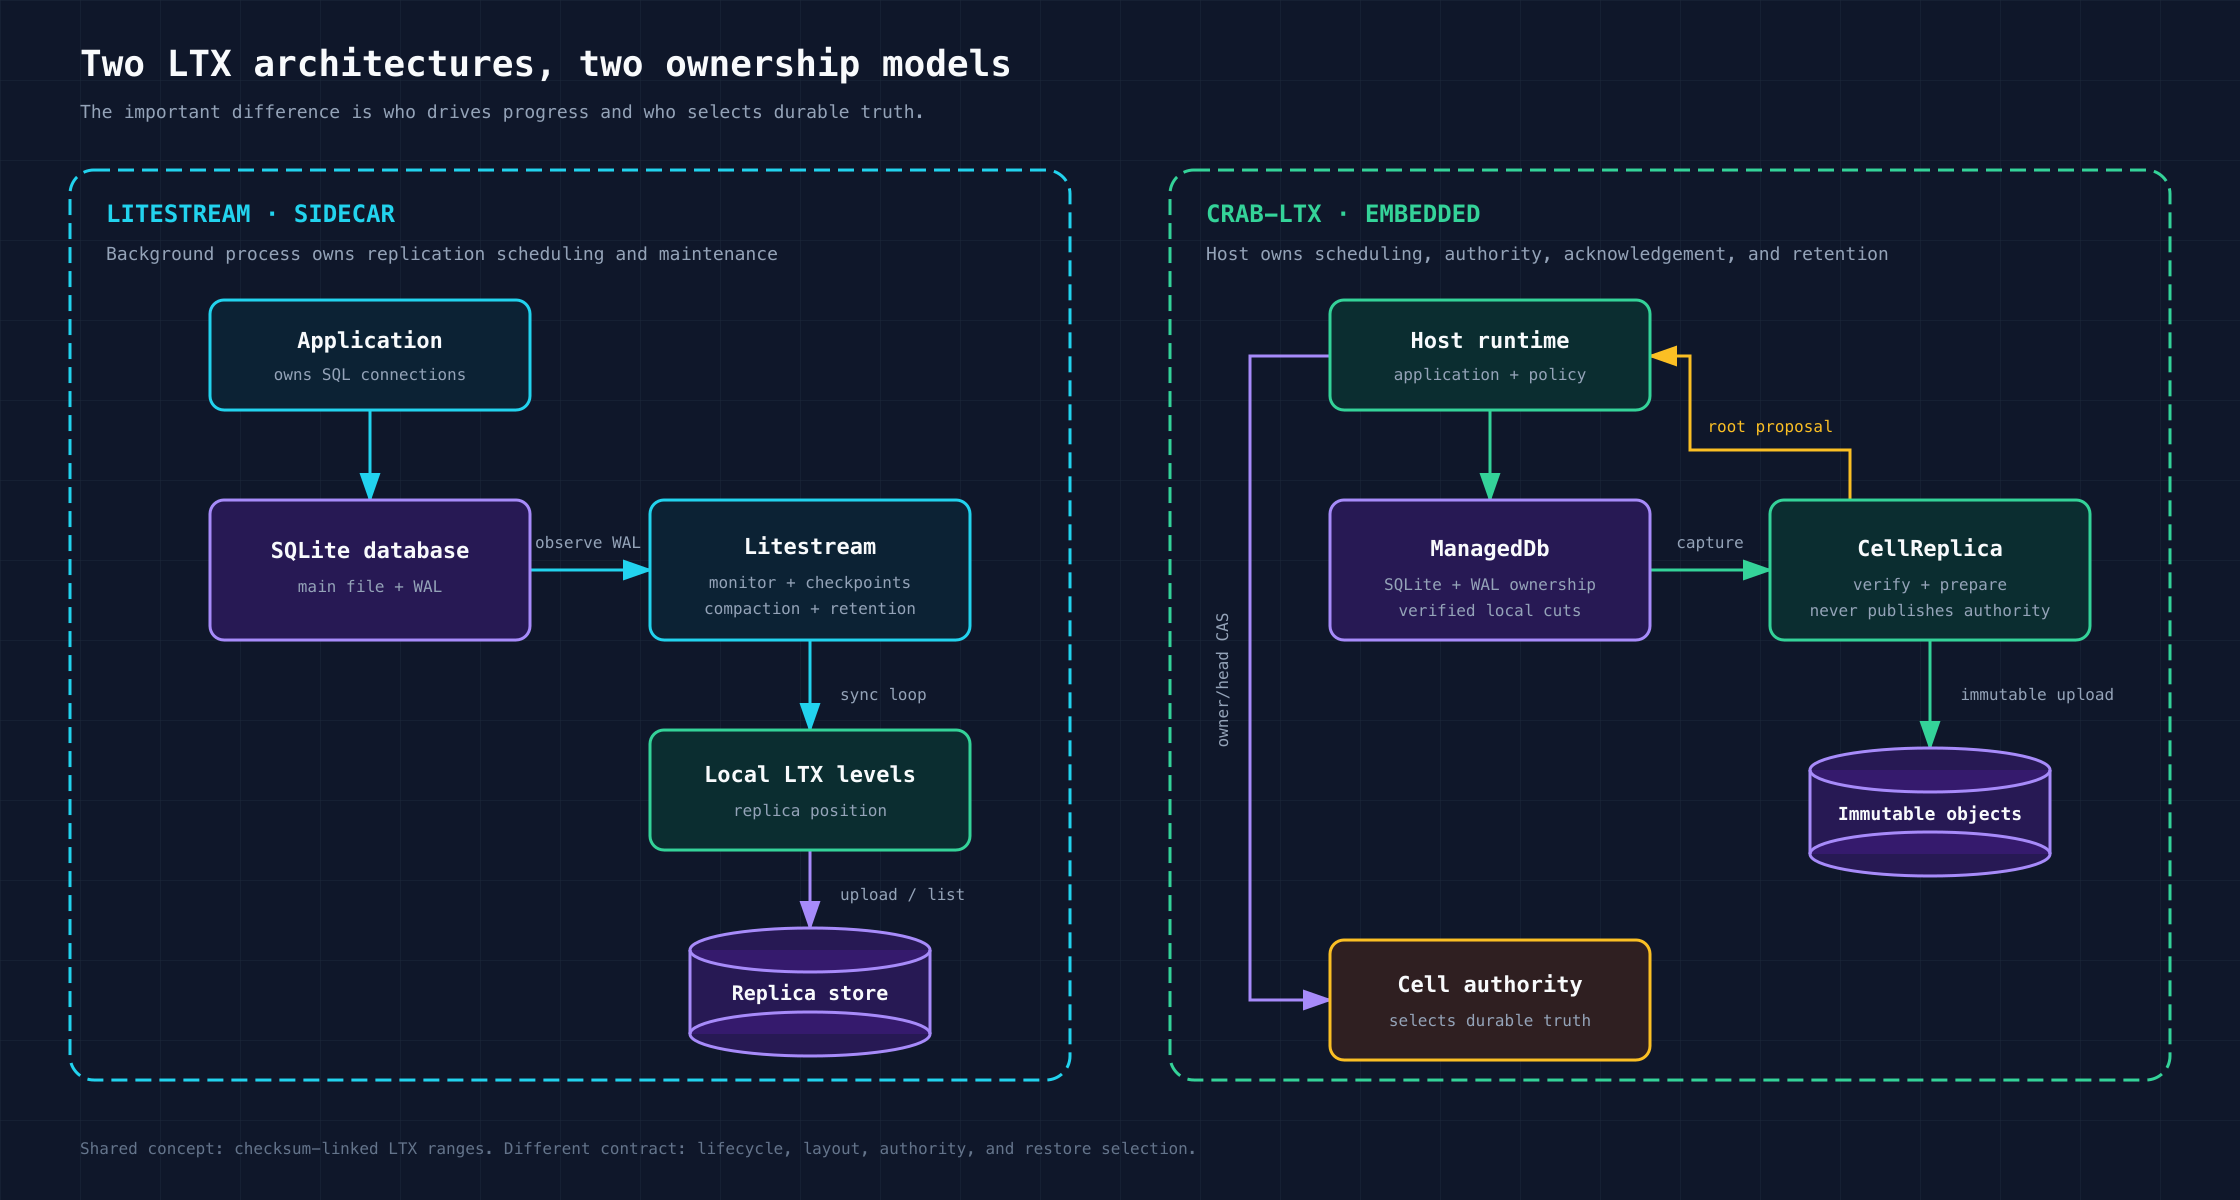
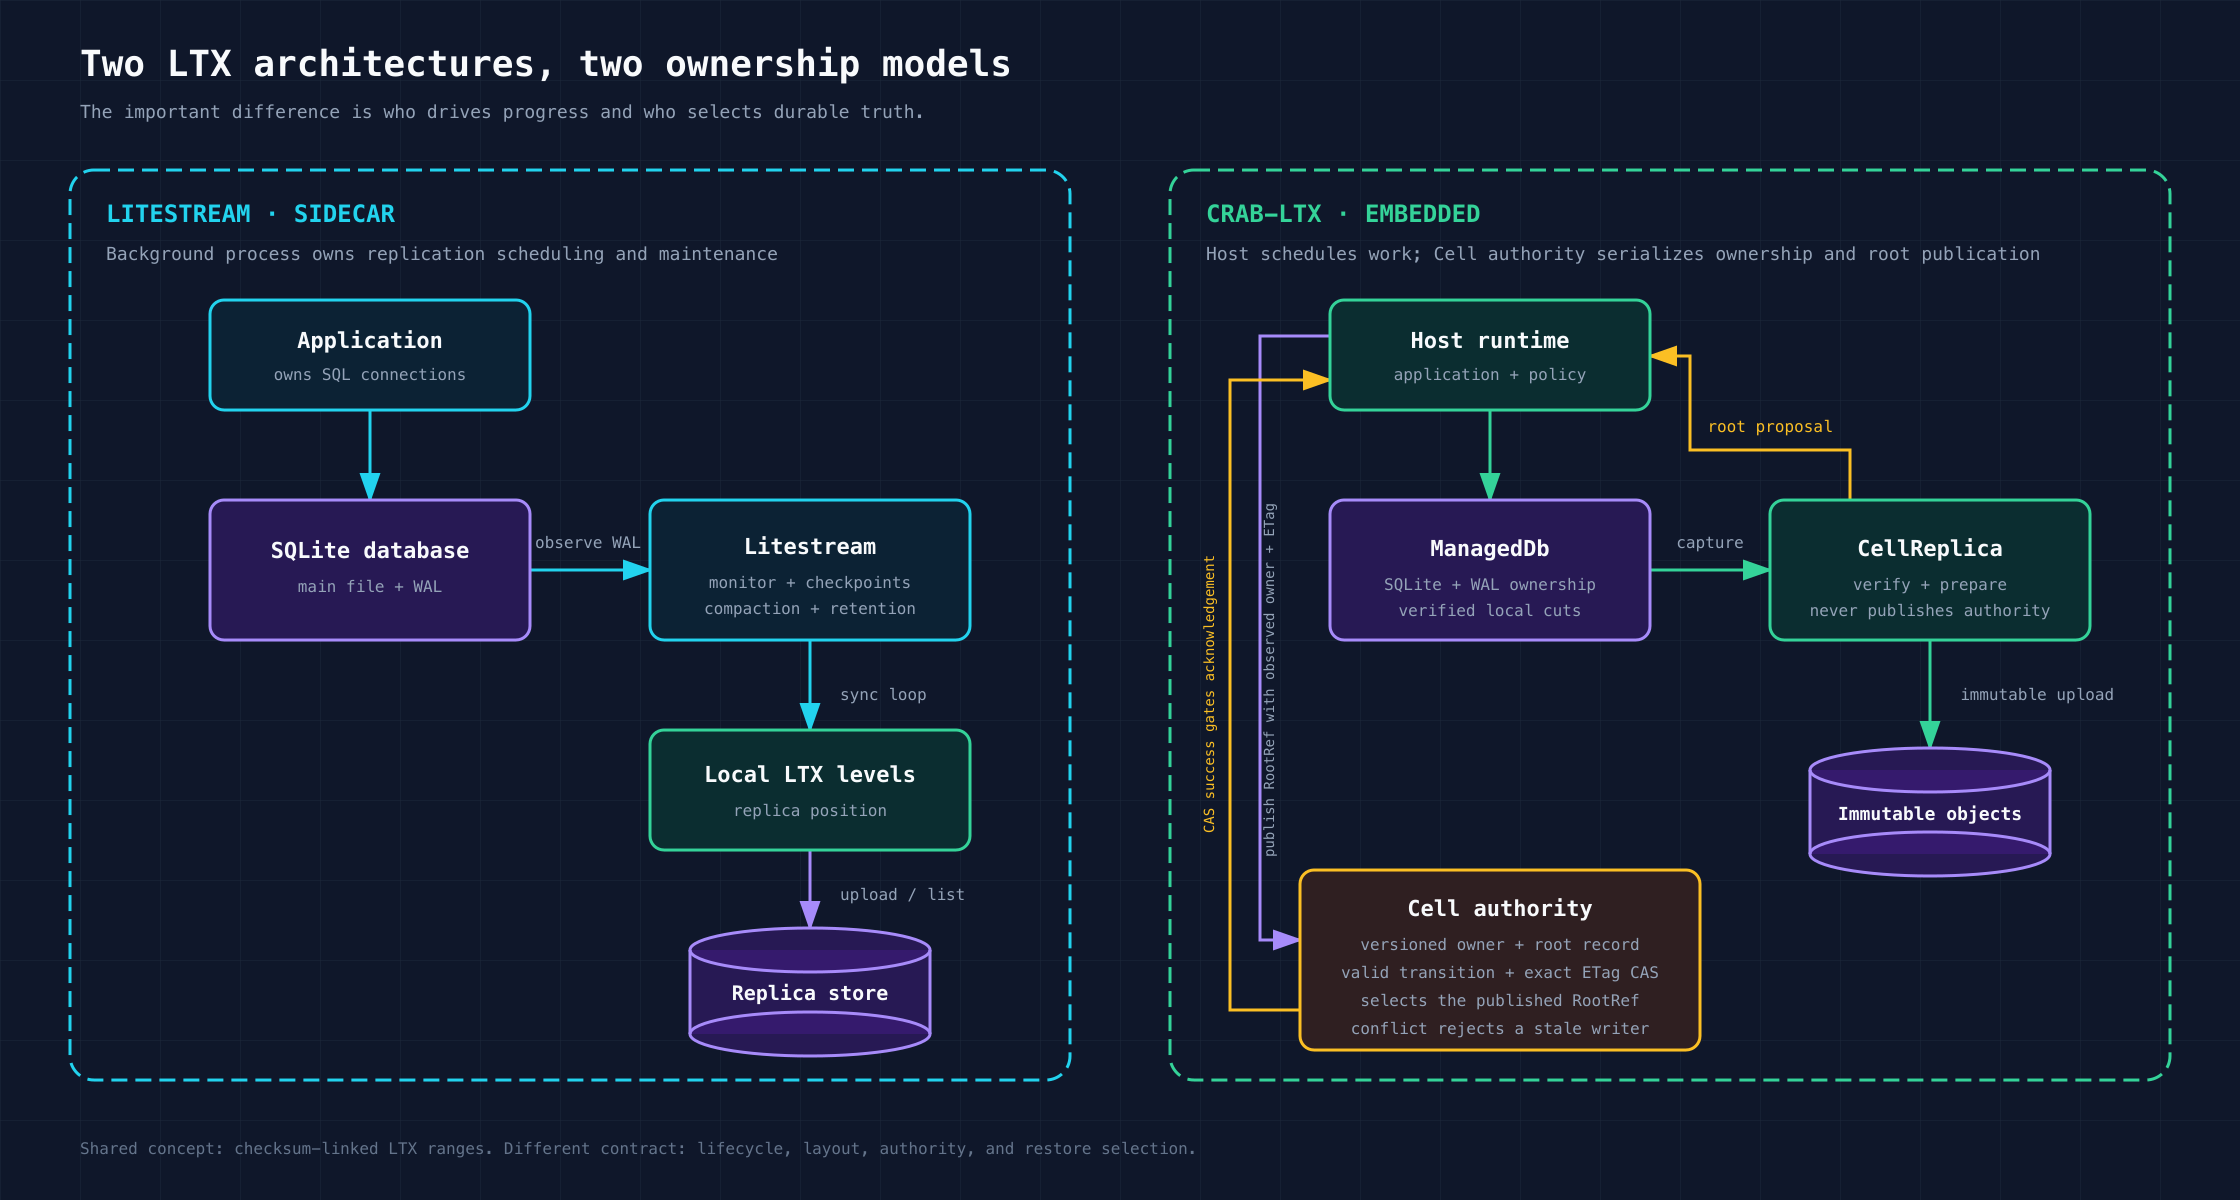
docs(ltx): explain Cell authority

Changed region(s): [[0.5312, 0.2775, 0.7812, 0.8942], [0.5625, 0.185, 0.8125, 0.2158], [0.8438, 0.185, 0.875, 0.2158]]

diff --git a/crates/crab-ltx/README.md b/crates/crab-ltx/README.md
@@ -79,6 +79,32 @@ The safe write path is:
 Recovery reverses the boundary: load the authority-pinned `RootRef`, verify its
 complete immutable object graph, then restore it or activate sparse SQL.
 
+### What Cell authority does
+
+Cell authority is the publication boundary implemented by `crab-cell-runtime`,
+not by `crab-ltx`. It stores one strict, versioned control record for a Cell:
+the current incarnation, owner, lifecycle state, revision, and published
+`RootRef`.
+
+For each update, the runtime reads that exact record with its object-store ETag,
+builds a named and fully validated transition, and conditionally writes the
+complete successor using the observed ETag. There is no blind overwrite or
+“latest root” discovery by listing objects. If another owner wins first, the
+conditional write conflicts; the runtime reloads the record and rejects or
+fences the stale writer.
+
+This separates two guarantees:
+
+- `CellReplica` verifies and uploads immutable objects, then returns a root
+  proposal.
+- Cell authority atomically chooses which proposal is the published root for
+  the current owner and incarnation.
+
+Only a successful authority CAS makes the root durable truth. The host may then
+acknowledge the mutation and prune the exact captured batch. An uploaded root
+whose CAS did not succeed remains an unreferenced proposal, never an
+acknowledged database state.
+
 ## Features
 
 | Feature | Default | Adds |
